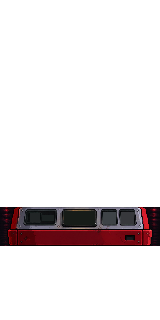
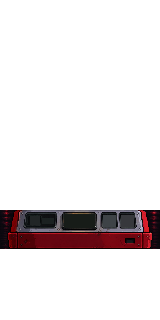
Add dark clearance between reels and the control shelf

Changed region(s): [[0.0, 0.625, 1.0, 0.7812]]

diff --git a/AGENTS.md b/AGENTS.md
@@ -498,7 +498,7 @@ Resources and currencies:
   A registration material fits the painting to the existing live reel apertures;
   numbers, symbols, powers, and counters remain separate runtime elements.
   SPIN is a separate ivory/brass button centered at x80 on the lower metal shelf.
-  Its touch rect is (57,210,46,28), between the remaining-spin counter on the
+  Its touch rect is (57,213,46,28), between the remaining-spin counter on the
   left and two 16px stash slots on the right, clear of the wealth odometer.
   The deeper shelf spans y203..241. Three 22px power faces sit on the upper
   metal rail with 26px touch areas centered at (46,127), (77,127), (108,127).
@@ -524,7 +524,10 @@ Resources and currencies:
   plate, corners, wells, wear and red fascia remain intact. The changing count and
   items are cleared; the original SPIN cap is extracted into five separate PNG
   states. Do not replace this artwork with procedural approximations.
-  The counter is at (28,210,14,16); 12x14 live items sit at (103,211) and (121,211).
+  A four-pixel dark recess separates the reel frames ending at y206 from the
+  preview shelf beginning at y210. The complete shelf assembly sits three pixels
+  lower, retaining its proportions and horizontal centering.
+  The counter is at (28,213,14,16); 12x14 live items sit at (103,214) and (121,214).
   Counter and stash recesses belong to that surface; stash nodes carry only item
   icons and input, with no tray texture overlay. SPIN retains an independent
   native face and press states over its cabinet recess. Worn, uneven sticker
@@ -534,7 +537,7 @@ Resources and currencies:
   native frames retain the payout hold, lit state and alternating jackpot flash;
   it stays dark until the winning result is announced.
   SPIN uses crisp native 5x7 lettering on the preview cap and a two-pixel depression;
-  the SPINS legend is a runtime pixel-font label at (43,215), replacing the tiny
+  the SPINS legend is a runtime pixel-font label at (43,218), replacing the tiny
   baked-in engraving.
   The full SPIN touch area remains unchanged. Dark mounting rims seat the power buttons
   into the metal rail. Visual review includes the 5,000 target and five active items.

diff --git a/godot/assets/images/machine_polished/README.md b/godot/assets/images/machine_polished/README.md
@@ -13,7 +13,7 @@ to preserve the world outlet at (80,298).
 shelf is `preview_shelf.png`, extracted directly from the approved preview, not
 redrawn. `tools/extract_preview_shelf.gd` reduces the archived source once to
 160x320 with nearest-neighbor sampling (no smoothing), copies rows 199..237 to
-y207..245, and clears only the baked-in count,
+y210..248, leaving a four-pixel dark gap beneath the reel frames, and clears only the baked-in count,
 item contents and independently animated cap. Bevels, slots, wear, red fascia
 retain the original pixels. The reduced SPINS engraving is cleared for a crisp
 runtime label; the cap's lettering is replaced with native 5x7 pixel glyphs.
@@ -21,12 +21,12 @@ The five `preview_spin_*.png` states use the original cap with a
 two-pixel depression, dimmed disabled state, brighter hover and a separate focus
 mark that does not cover the depressed cap. The older
 procedural shelf and SPIN SVGs are no longer sampled for these controls.
-The live counter occupies (28,210,14,16). Item images are 12x14 at (103,211)
-and (121,211), within the original recesses; their 16x18 touch slots retain
+The live counter occupies (28,213,14,16). Item images are 12x14 at (103,214)
+and (121,214), within the original recesses; their 16x18 touch slots retain
 margin activation and gameplay locks. The stash container has no tray texture.
 Rebuild with `godot --headless --path godot -s ../tools/extract_preview_shelf.gd`.
 The source archive is tooling only; exported builds use PNGs under `godot/assets`.
-SPIN keeps its 46x28 touch area at (57,210), keyboard activation and targeting pass-through.
+SPIN keeps its 46x28 touch area at (57,213), keyboard activation and targeting pass-through.
 
 The CRT dealer is inset at (36,51), size 30x43, with reactions above the approach
 row at y95..98. Active items occupy y100..107. TARGET and its current value are
